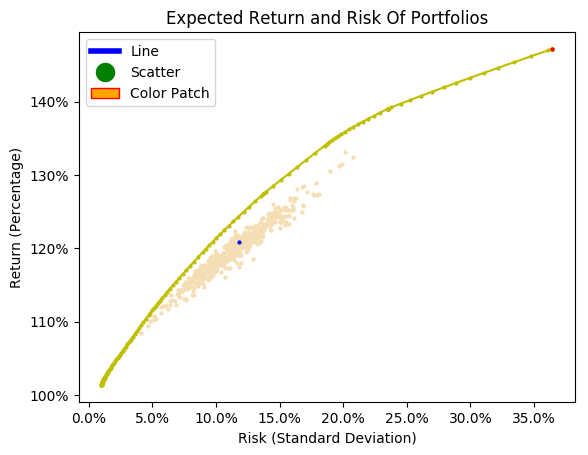
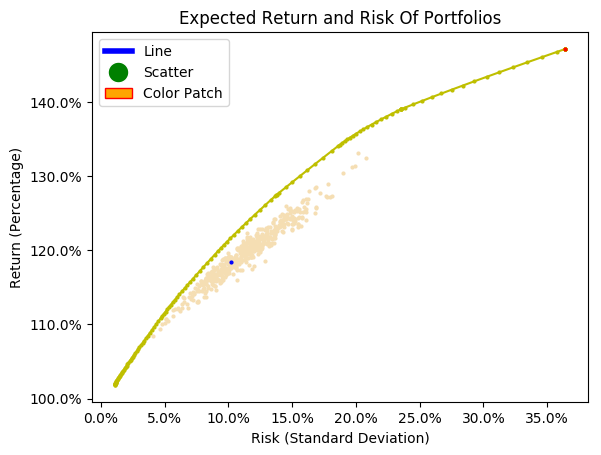
break time, frontier looking good

diff --git a/markowitz.py b/markowitz.py
@@ -145,9 +145,9 @@ def optimal_portfolio(daily_data):
 
     N = 500            # Bigger N, bigger upper range, less lower range and less control. Smaller N, smaller range more control, more lower values
     if 0 <= n <= 7:
-        power = n + 1
+        power = n + 9
     else:
-        power = 8.0
+        power = 9.0
     #the first 20 porfolios are
     mus = [10**(power * t/N - 1.0) for t in range(0,200)]
     
